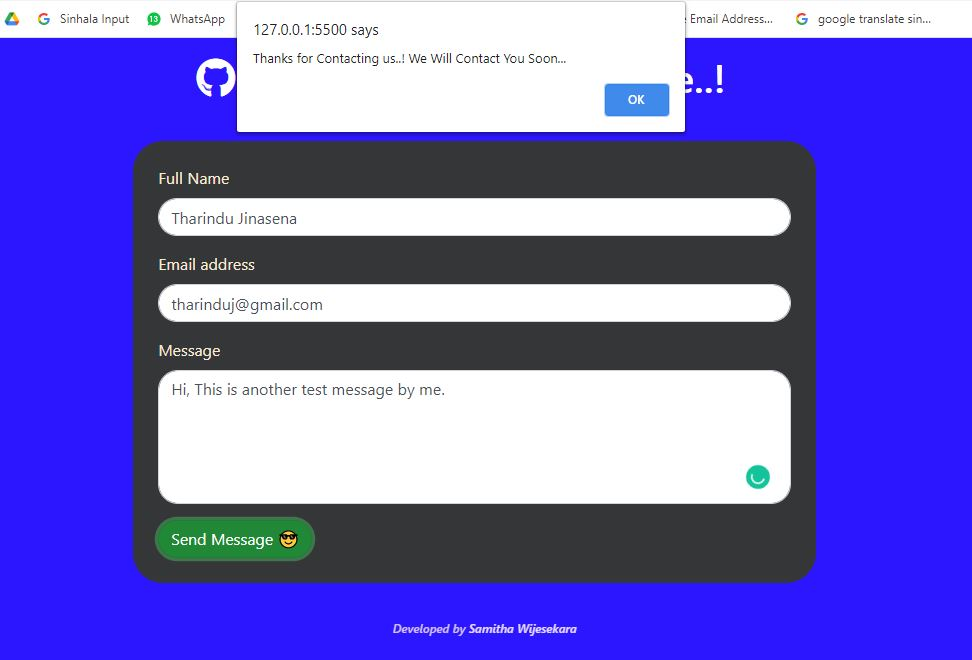
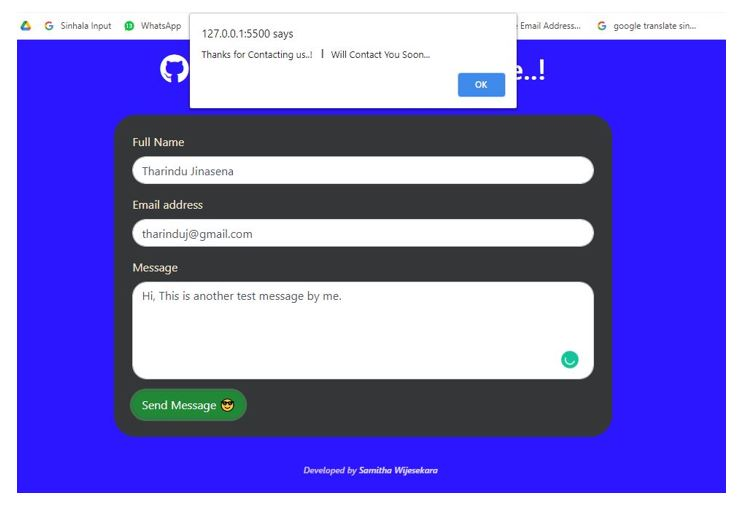
did some changes

Changed region(s): [[0.0, 0.0, 1.0, 1.0]]

diff --git a/script.js b/script.js
@@ -6,6 +6,6 @@ form.addEventListener('submit', e => {
             method: 'POST',
             body: new FormData(form)
         })
-        .then(response => alert("Thanks for Contacting us..! We Will Contact You Soon..."))
+        .then(response => alert("Thanks for Contacting me..! I Will Contact You Soon..."))
         .catch(error => console.error('Error!', error.message))
 })
